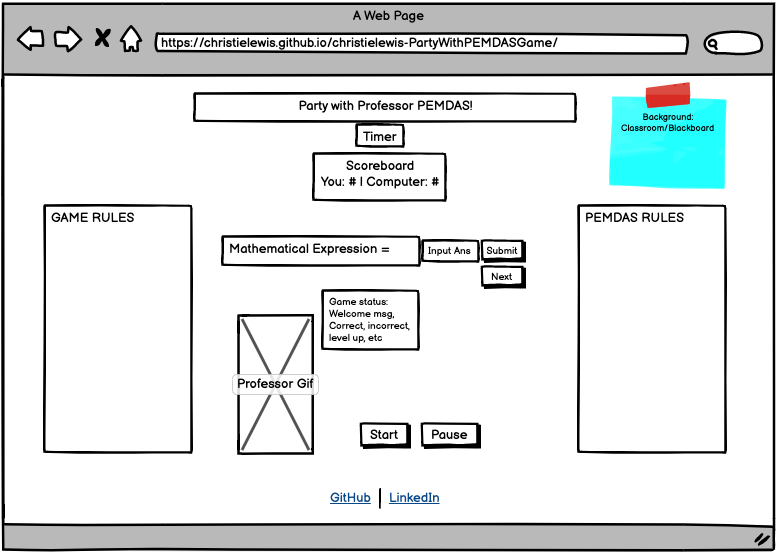
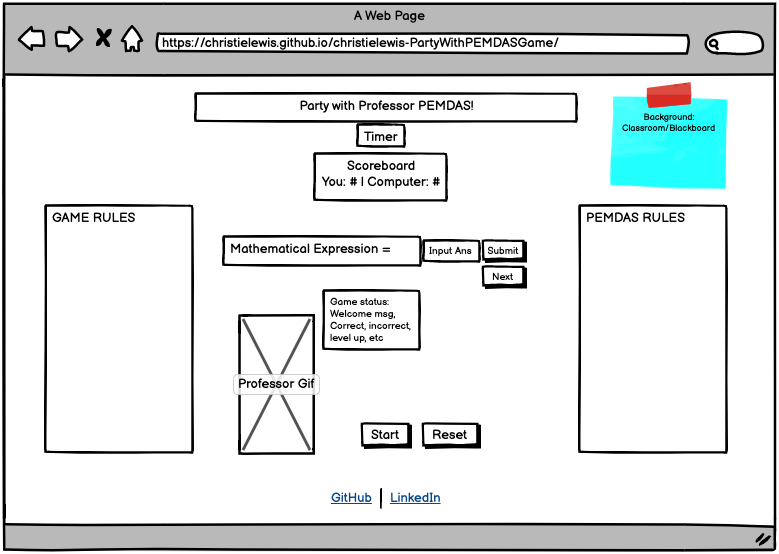
Fixed wireframe; other misc commits

diff --git a/main.js b/main.js
@@ -22,6 +22,10 @@ const countdown = (time) => {
                 document.getElementById("submit-btn").disabled = true;
                 compNum++;
                 compScore.innerText = compNum;
+                if(compNum === 10) {
+                    gameOver();
+                    gameOverMsg.innerText = `Game over. You lost.`
+                }
                 gameStatus.innerText = `Time's up! Professor P gets the point!`
             }
         }
@@ -224,9 +228,10 @@ const resetGame = () => {
     playerScore.innerText = playerNum;
     compScore.innerText = compNum;
     document.getElementById("submit-btn").disabled = false;
+    timeLeft = 41;
     gameForm.reset();
-    // clearInterval(timerId);
-    timerEl.innerText = `0s`
+    clearInterval(timerId);
+    timerEl.innerText = `40s`
 
 }
 

diff --git a/style.css b/style.css
@@ -1,3 +1,9 @@
+body{
+    background-image: url("https://media.istockphoto.com/vectors/empty-classroom-interior-school-or-college-class-vector-id1205276835?k=20&m=1205276835&s=612x612&w=0&h=bNFYTykClMRk9xCDj6zdEgUHEH6YGNqwRGI0trSRCUk=");
+    background-size: cover;
+    text-align: center;
+}
+
 a {
     text-decoration: none;
 }
